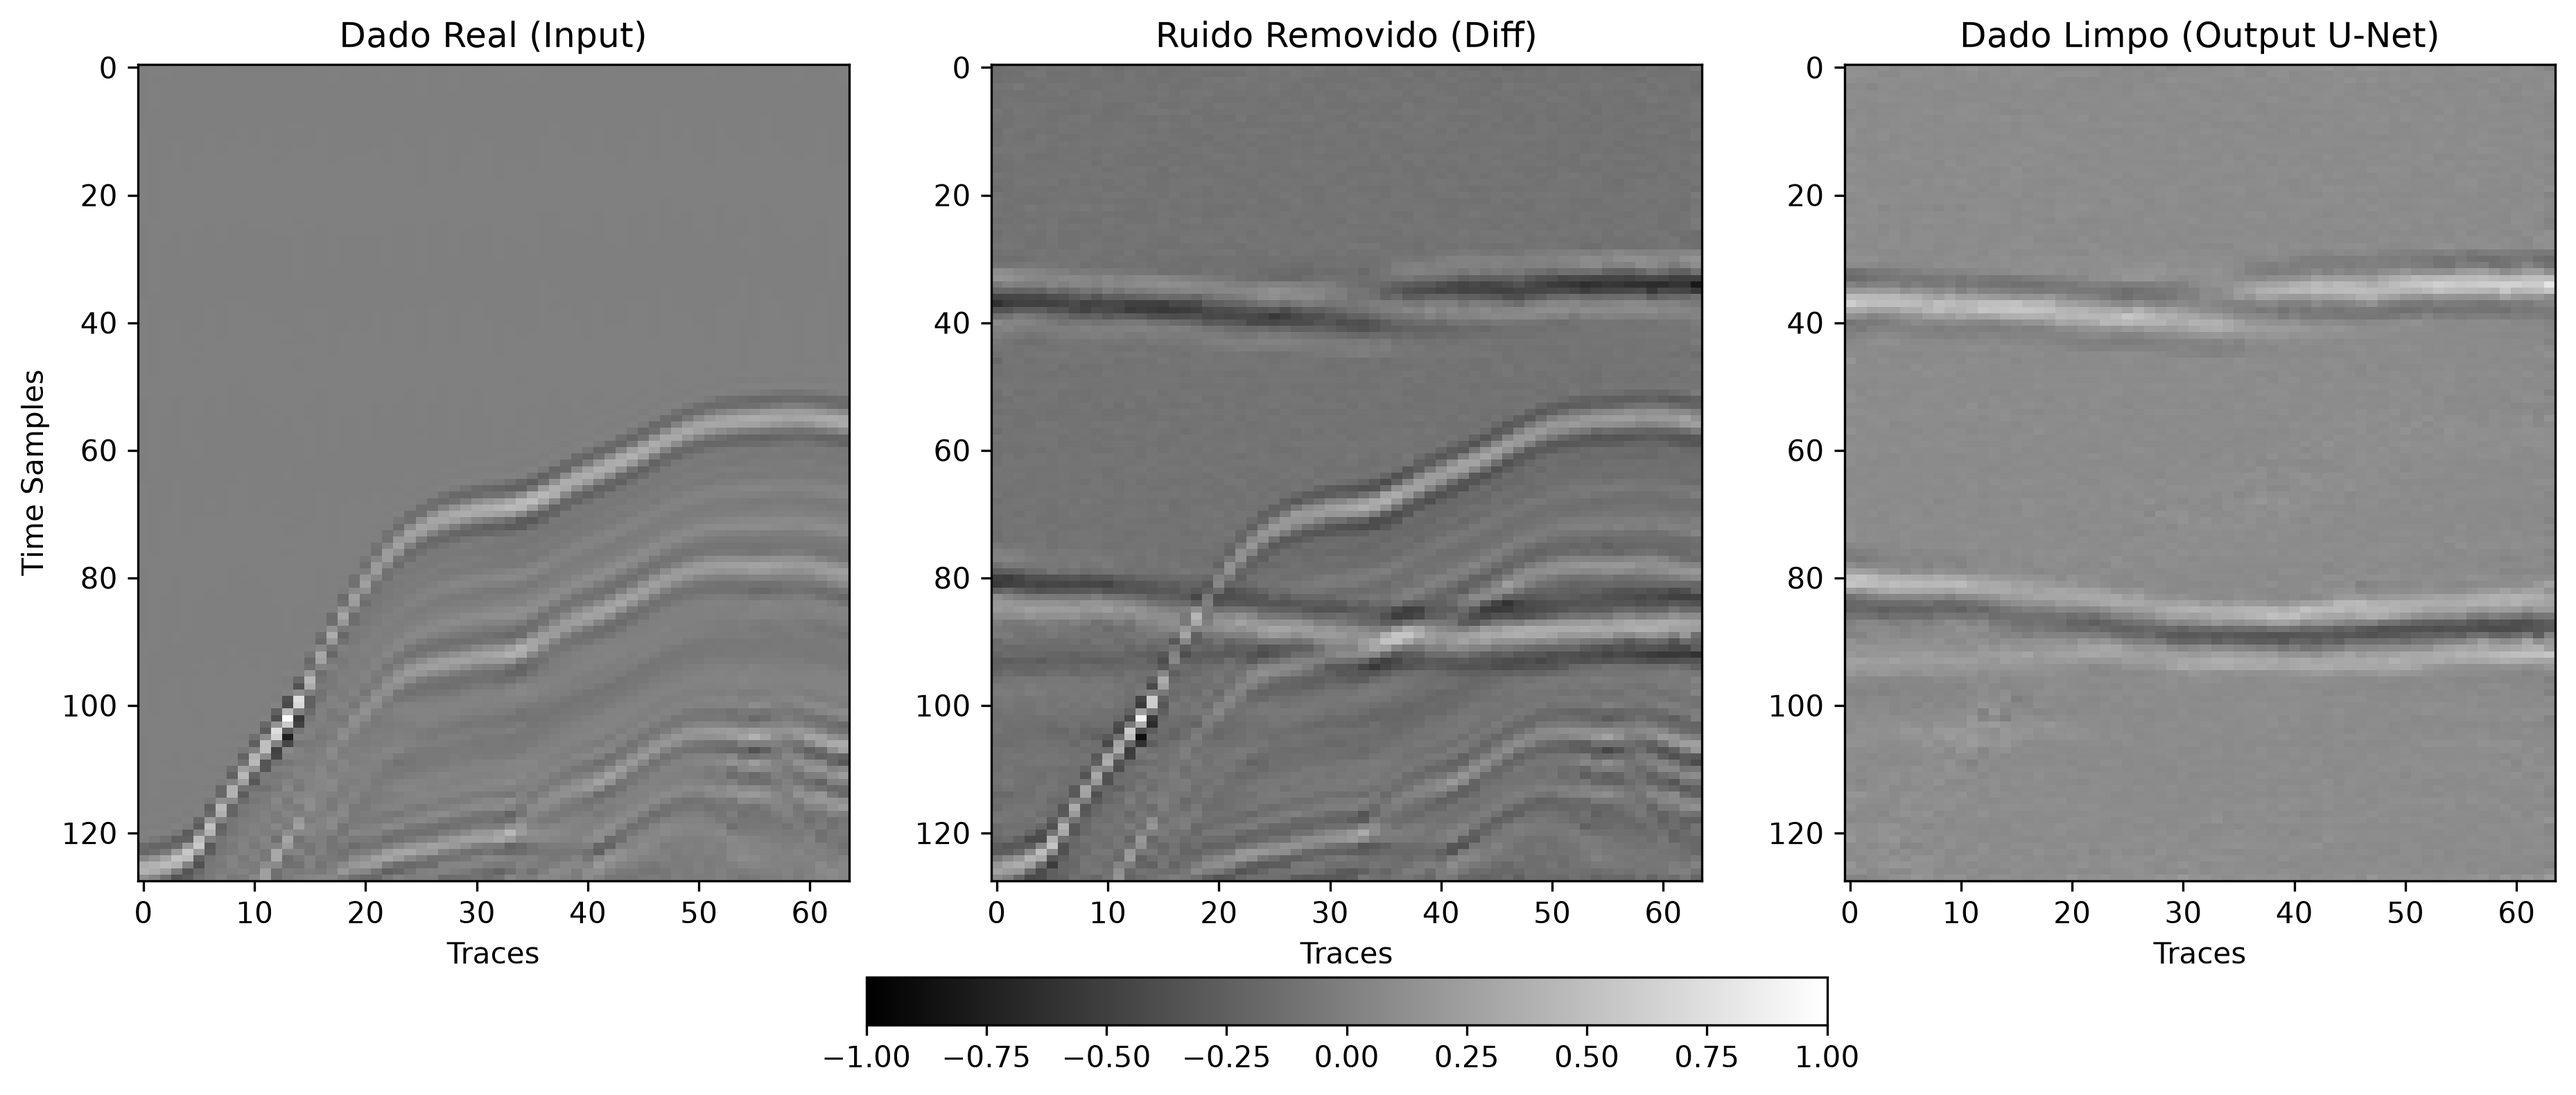
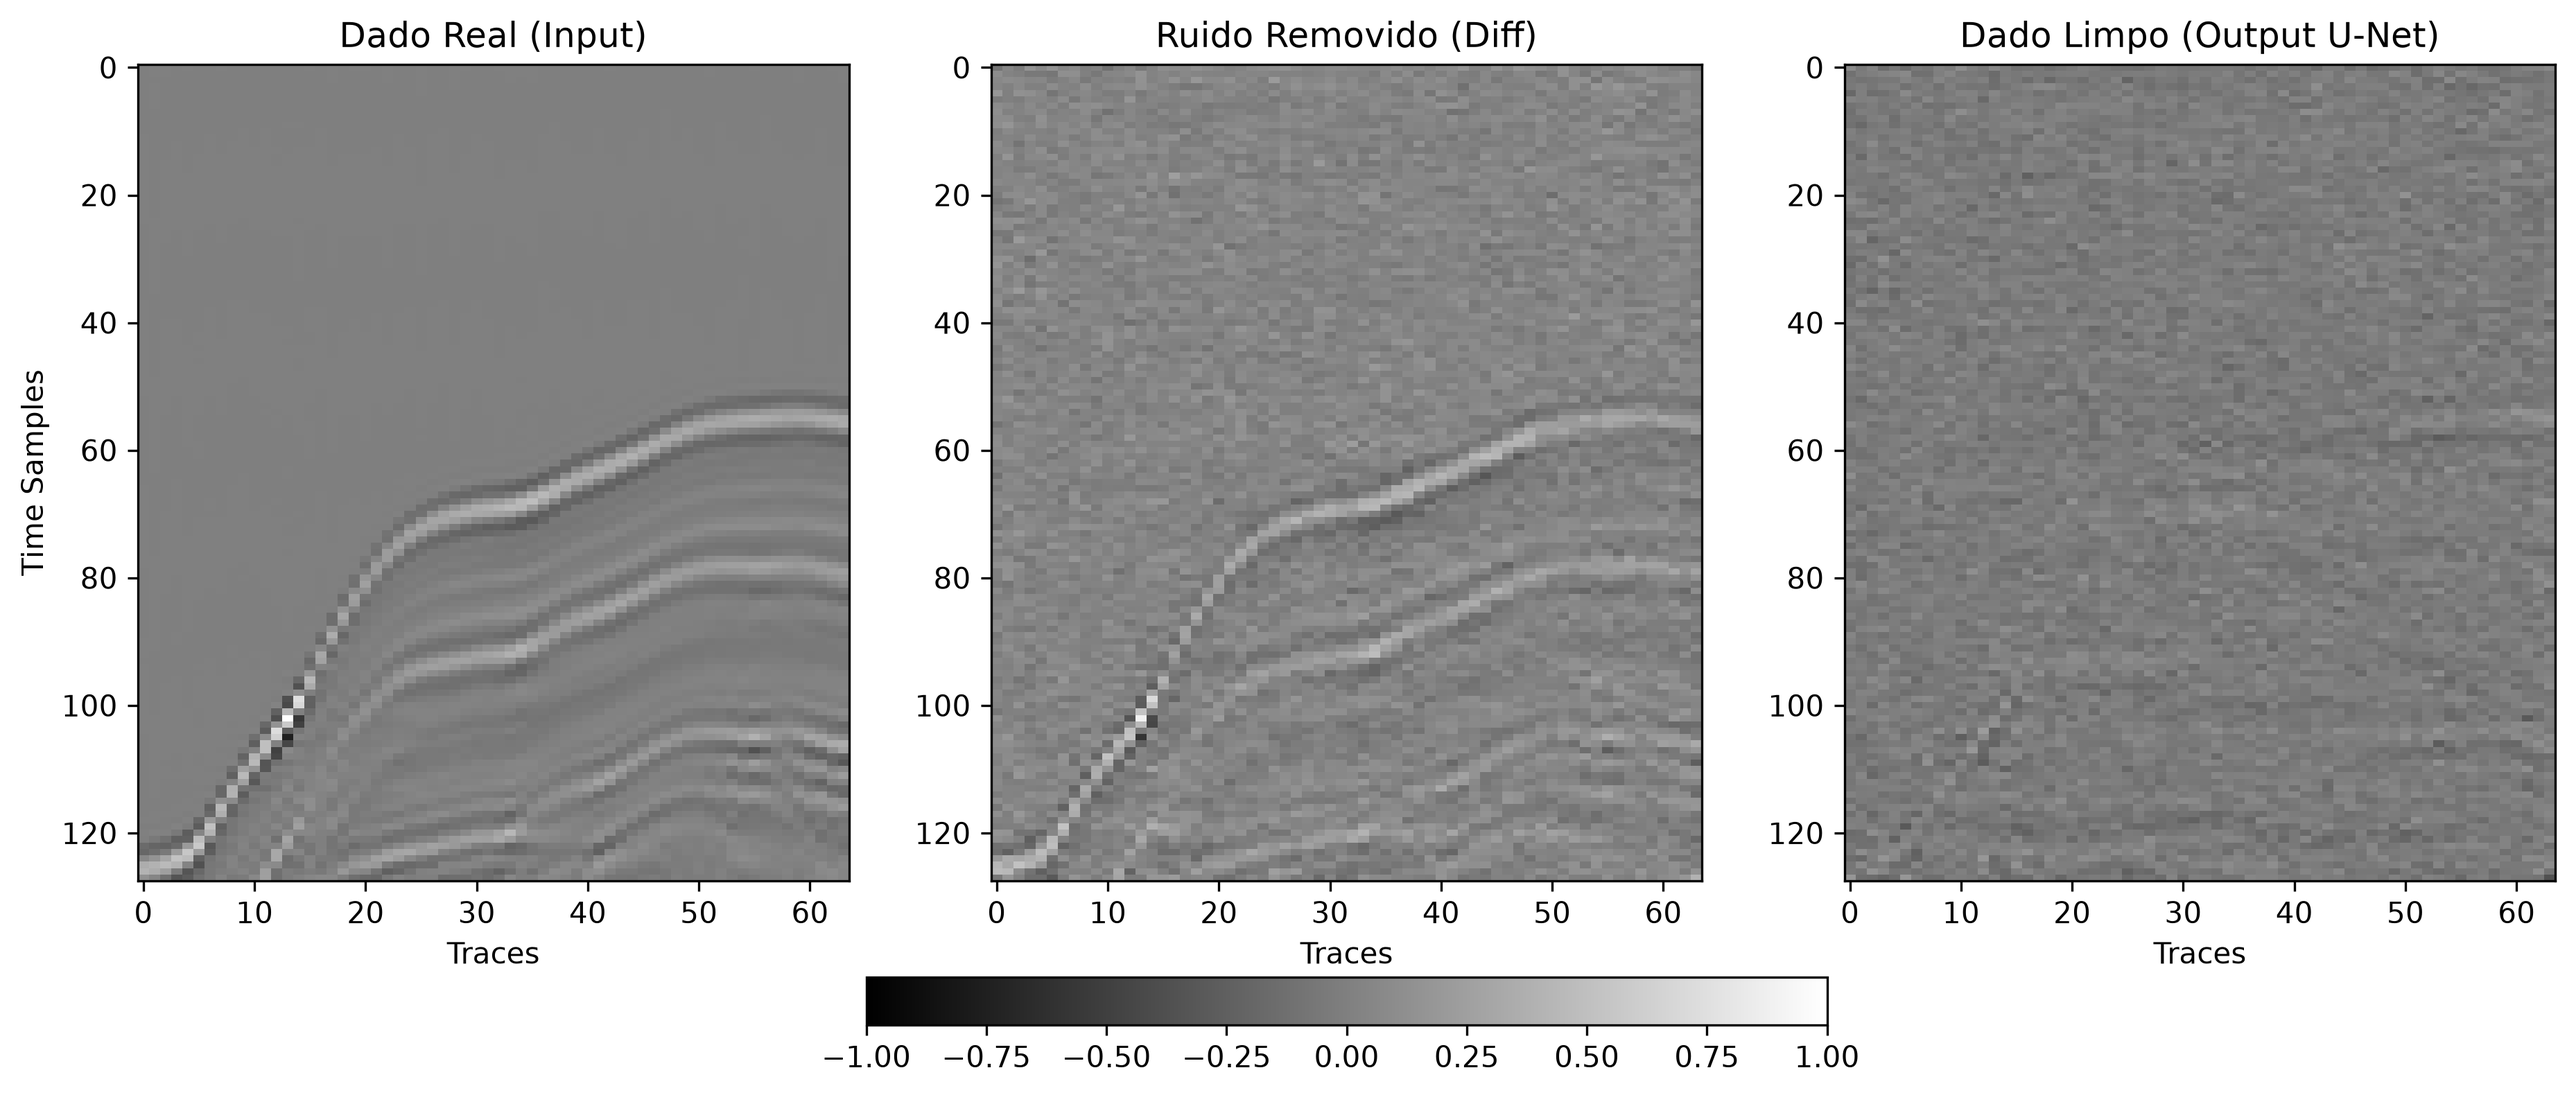
fix: implementa mergulhos estocasticos no gerador para corrigir vies geometrico

Changed region(s): [[0.3746, 0.062, 0.6868, 0.8063], [0.718, 0.062, 0.9989, 0.8063]]

diff --git a/scripts/infer_real_data.py b/scripts/infer_real_data.py
@@ -15,7 +15,10 @@ def main():
     device = torch.device("cuda" if torch.cuda.is_available() else "cpu")
     print(f"[*] Dispositivo detectado: {device}")
     
-    model = UNet(in_channel=2, out_channel=1).to(device)
+    model = UNet(in_channel=2, out_channel=1)
+    if torch.cuda.device_count() > 1:
+        model = torch.nn.DataParallel(model)
+    model = model.to(device)
     diffusion = GaussianDiffusion(
         model,
         mode="demultiple",
@@ -28,14 +31,14 @@ def main():
     trainer = Trainer(
         diffusion,
         mode="demultiple",
-        folder=os.path.join(os.path.dirname(__file__), "../data/"),
+        folder=None,
         image_size=(64, 128),
         train_batch_size=4,
         train_lr=2e-5,
         train_num_steps=2000,
         gradient_accumulate_every=2,
         ema_decay=0.995,
-        amp=torch.cuda.is_available()
+        amp=False
     )
     
     # 2. Carga Segura dos Pesos (EMA)
@@ -49,13 +52,14 @@ def main():
         print(f"[!] Por favor, copie o arquivo .pt da maquina NVIDIA para esta pasta.")
         
     # 3. Coleta do Dado Real
-    # Vamos pegar o bloco X_15.npy gerado pelo prepare_real_data.py
-    real_data_path = "data/data/X_15.npy"
+    import h5py
+    real_data_path = "data/real_dataset.h5"
     if not os.path.exists(real_data_path):
         raise FileNotFoundError(f"Arquivo de dado real nao encontrado: {real_data_path}. Rode o prepare_real_data.py primeiro.")
         
-    print(f"[*] Carregando bloco real: {real_data_path}")
-    real_patch_np = np.load(real_data_path) # shape (64, 128)
+    print(f"[*] Carregando bloco real: {real_data_path} (X_15)")
+    with h5py.File(real_data_path, 'r') as f:
+        real_patch_np = f['X_15'][:] # shape (64, 128)
     
     # Prepara o tensor [B, C, H, W] = [1, 1, 64, 128]
     x_in = torch.from_numpy(real_patch_np).float().unsqueeze(0).unsqueeze(0).to(device)
@@ -102,7 +106,8 @@ def main():
     
     plt.colorbar(im2, ax=axes.ravel().tolist(), orientation='horizontal', fraction=0.05, pad=0.1)
     
-    output_png = "inference_real.png"
+    os.makedirs("results", exist_ok=True)
+    output_png = "results/inference_real.png"
     plt.savefig(output_png, dpi=300, bbox_inches='tight')
     plt.close()
     

diff --git a/src/diffusion.py b/src/diffusion.py
@@ -246,11 +246,12 @@ def generate_label(shape: Tuple[int, int]) -> np.ndarray:
     num_events = np.random.randint(2, 5)
     for _ in range(num_events):
         start_time = np.random.randint(20, nsamples - 20)
-        slope = np.random.uniform(-0.15, 0.15)
+        slope = np.random.uniform(-0.4, 0.4) # Mergulhos fortes reais
+        curvature = np.random.uniform(-0.001, 0.001) # Leve curvatura natural
         amplitude = np.random.uniform(0.7, 1.0)
         
         for tr in range(ntraces):
-            t_idx_exact = start_time + slope * tr
+            t_idx_exact = start_time + slope * tr + curvature * (tr ** 2)
             t_idx = int(np.round(t_idx_exact))
             
             if half_w <= t_idx < nsamples - half_w:
@@ -267,8 +268,9 @@ def generate_input(label: np.ndarray) -> np.ndarray:
     num_multiples = np.random.randint(2, 6)
     for _ in range(num_multiples):
         start_time = np.random.randint(0, nsamples)
-        slope = np.random.uniform(-0.8, 0.8)
-        curvature = np.random.uniform(-0.005, 0.005)
+        slope = np.random.uniform(-1.0, 1.0)
+        sign = np.random.choice([-1, 1])
+        curvature = sign * np.random.uniform(0.003, 0.015) # Curvatura agressiva
         amplitude = np.random.uniform(0.3, 0.7)
         
         for tr in range(ntraces):

diff --git a/scripts/prepare_real_data.py b/scripts/prepare_real_data.py
@@ -61,7 +61,7 @@ def sliding_window_and_save(data_2d: np.ndarray, output_h5: str,
 
 if __name__ == "__main__":
     # --- CONFIGURACOES DO PIPELINE ---
-    SU_FILE = "/home/emmanuel/Documentos/Trabalho/diffseis/arquivos/marine-geom-co100.su"
+    SU_FILE = "data/marine-geom-co100.su"
     TARGET_OFFSET = -100
     TOLERANCE = 0
     OUTPUT_H5 = os.path.join(os.path.dirname(__file__), "../data/real_dataset.h5")

diff --git a/scripts/run.py b/scripts/run.py
@@ -32,7 +32,7 @@ trainer = Trainer(
     mode = mode,
     folder = folder,
     image_size = image_size,
-    train_batch_size = 64,
+    train_batch_size = 16,
     train_lr = 2e-5,
     train_num_steps = 2000,         # total training steps
     gradient_accumulate_every = 2,    # gradient accumulation steps
